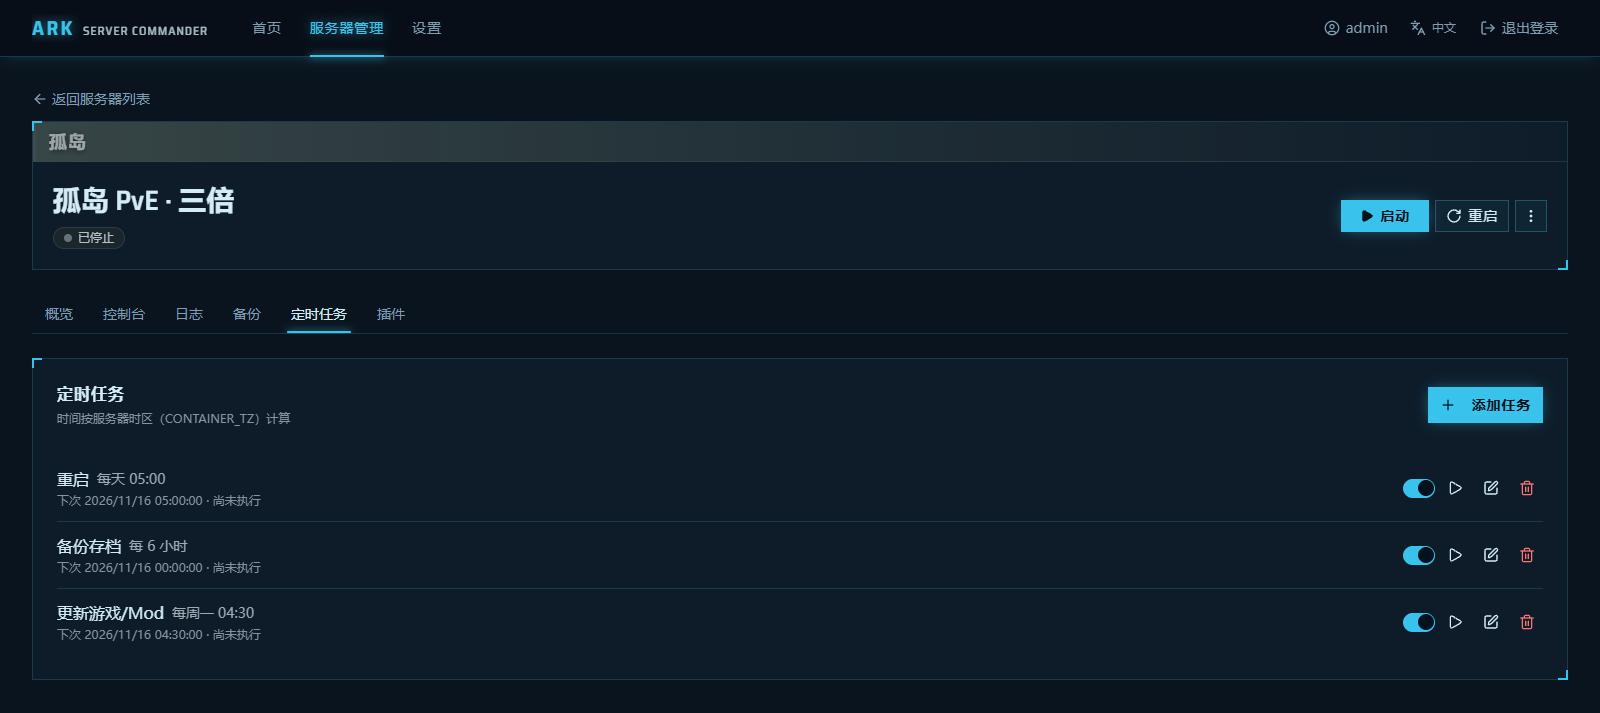
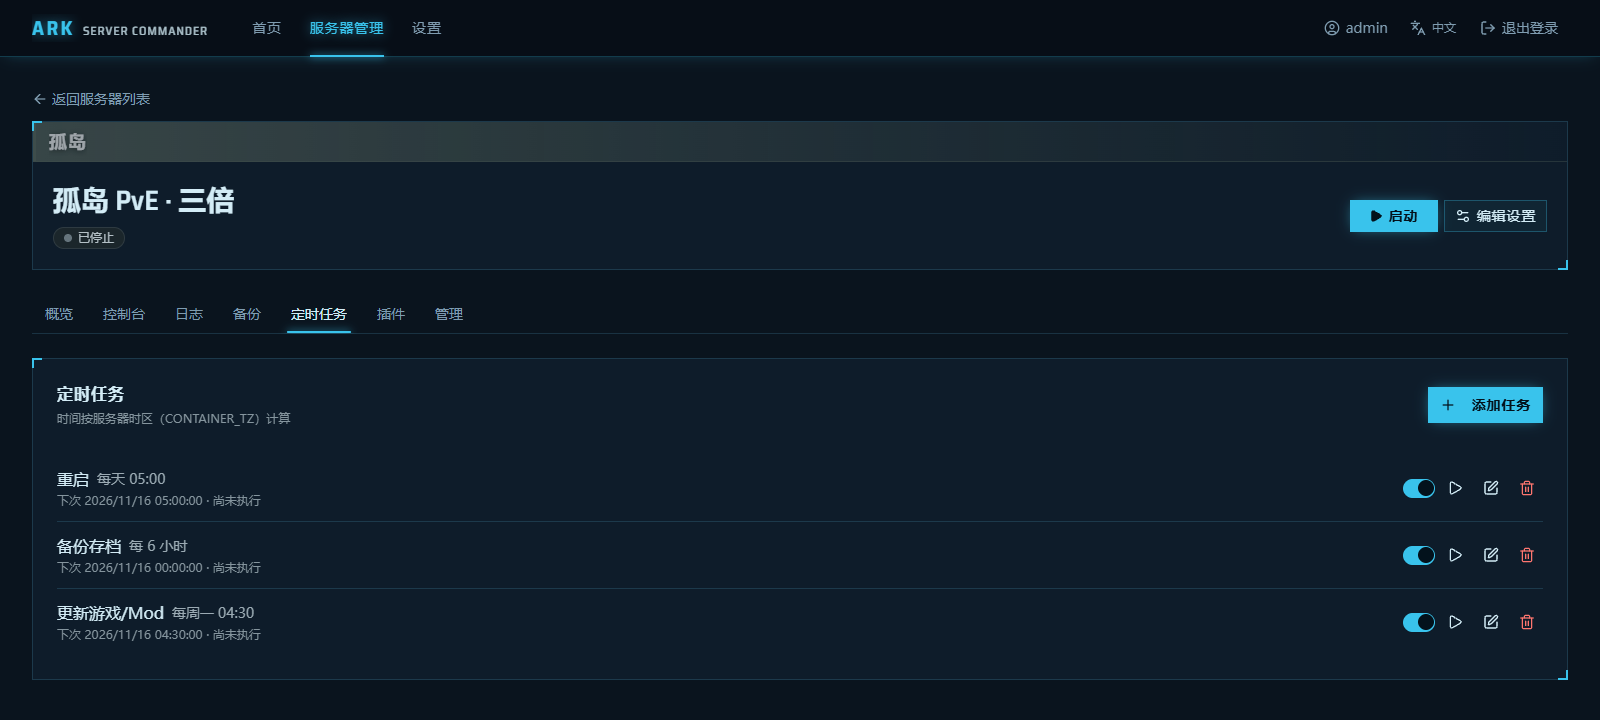
docs(readme): 按改版后的服务器卡片和详情页重拍截图
8 张截图按原来的演示数据（6 台服务器，公网地址 ark.example.com）重拍：卡片底部的启停和快捷入口、详情页顶部操作和"管理"标签、编辑页底部的"导入配置"。新增列表视图和"管理"标签两张截图，中英文 README 都加了说明。

diff --git a/README.md b/README.md
@@ -159,13 +159,21 @@ A: No. On first start the backend generates a strong random secret and stores it
 
 ![Home: servers, online players, resource usage, images and disk](./docs/zh/images/home.png)
 
-**Server list**
+**Server list: card view with start/stop and shortcuts to console, logs and settings**
 
-![Server list](./docs/zh/images/servers.png)
+![Server list: card view with start/stop and shortcuts to console, logs and settings](./docs/zh/images/servers.png)
+
+**List view: one server per row with status, players, resources and address**
+
+![List view: one server per row with status, players, resources and address](./docs/zh/images/servers-list.png)
 
 **Server details: connection info, configuration and mod updates**
 
 ![Server details: connection info, configuration and mod updates](./docs/zh/images/server-detail.png)
+
+**Manage: update game/mods, recreate the container, export, import and copy configs, delete the server**
+
+![Manage: update game/mods, recreate the container, export, import and copy configs, delete the server](./docs/zh/images/server-manage.png)
 
 **Scheduled tasks: restart, backup and update with countdown broadcasts**
 
